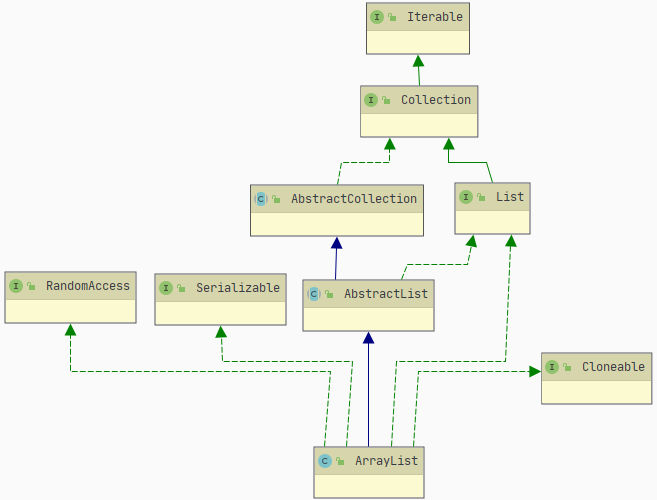
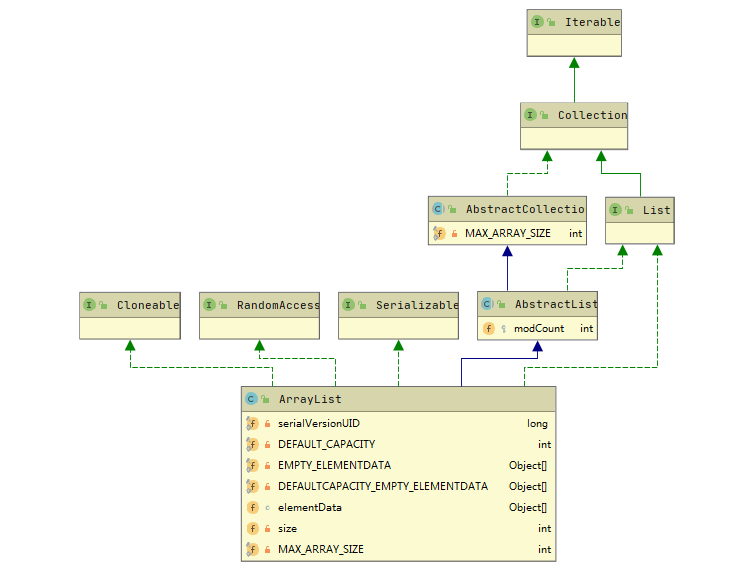
Site updated: 2020-06-06 22:25:38

diff --git a/2020/05/21/JAVA/Collection/List/ArrayList底层原理/index.html b/2020/05/21/JAVA/Collection/List/ArrayList底层原理/index.html
@@ -28,10 +28,9 @@
 <meta property="og:description" content="ArrayList 底层原理List作为有序集合的典型代表经常使用,但底层原理一直是看别人的总结,有道是实践出真知… 层级结构,数据结构 扩容机制,自身特点">
 <meta property="og:locale" content="zh_CN">
 <meta property="og:image" content="https://onepotsake.github.io/image/JAVA/Collection/List/ArrayList/Underlying%20principles.png">
-<meta property="og:image" content="https://onepotsake.github.io/image/JAVA/Collection/List/ArrayList/Expansion.png">
-<meta property="og:image" content="https://onepotsake.github.io/image/JAVA/Collection/List/ArrayList/default.png">
+<meta property="og:image" content="https://onepotsake.github.io/image/JAVA/Collection/List/ArrayList/proveThread%20NotSee.png">
 <meta property="article:published_time" content="2020-05-21T12:49:19.000Z">
-<meta property="article:modified_time" content="2020-06-05T15:58:15.615Z">
+<meta property="article:modified_time" content="2020-06-06T14:25:19.294Z">
 <meta property="article:author" content="OnePotSake">
 <meta property="article:tag" content="JAVA">
 <meta property="article:tag" content="集合">
@@ -230,7 +229,7 @@
                   <i class="far fa-calendar-check"></i>
                 </span>
                 <span class="post-meta-item-text">更新于</span>
-                <time title="修改时间：2020-06-05 23:58:15" itemprop="dateModified" datetime="2020-06-05T23:58:15+08:00">2020-06-05</time>
+                <time title="修改时间：2020-06-06 22:25:19" itemprop="dateModified" datetime="2020-06-06T22:25:19+08:00">2020-06-06</time>
               </span>
             <span class="post-meta-item">
               <span class="post-meta-item-icon">
@@ -264,14 +263,14 @@
                 <i class="far fa-file-word"></i>
               </span>
                 <span class="post-meta-item-text">本文字数：</span>
-              <span>573</span>
+              <span>6.8k</span>
             </span>
             <span class="post-meta-item" title="阅读时长">
               <span class="post-meta-item-icon">
                 <i class="far fa-clock"></i>
               </span>
                 <span class="post-meta-item-text">阅读时长 &asymp;</span>
-              <span>1 分钟</span>
+              <span>6 分钟</span>
             </span>
 
         </div>
@@ -288,13 +287,10 @@
 <p>扩容机制,自身特点</p>
 <a id="more"></a>
 
-<p>通过idea 工具可以看出其层次机构</p>
+<p>通过idea 工具看出其层次结构</p>
 <img src="/image/JAVA/Collection/List/ArrayList/Underlying principles.png" style="margin: auto;" />
 
-
-
 <center>层次结构图</center> 
-
 
 
 <p>层次结构解析</p>
@@ -302,24 +298,37 @@
 <p><strong>Collection</strong>:集合常用接口.集成集合常用方法;</p>
 <p><strong>AbstractCollectior</strong>:具体实现<strong>collection</strong>接口,重点<strong>finishToArray</strong>方法,<strong>hugeCapacity</strong>方法.</p>
 <p>   <strong>hugeCapacity</strong>用于将元素复制到新的集合中.</p>
-<p>   <strong>hugeCapacity</strong>扩容代码,扩容为原有空间大小的1.5倍.</p>
+<p>   <strong>hugeCapacity</strong>扩容代码,扩容为原有空间大小的<strong>1.5倍</strong>.</p>
 <p><strong>List</strong>: 继承原有Collection方法,同时扩展部分自己的具体实现操作(default 方法)</p>
-<p><strong>AbstractList</strong>: ArrayList 主要继承的类.其具体实现接口.</p>
-<p><strong>Randomaccess</strong>接口,实现它的接口,底层采用</p>
-<p><strong>Serializable</strong>:实例化接口,实例化接口中没有具体的方法实现.</p>
-<p><strong>Cloneable</strong>:拷贝接口</p>
-<p>存储数据结构</p>
-<p>底层采用Object[]数组存储,数组作为一个集合,我们知道数组在分配内存时是一块完整的区域,数据之间有顺序关系的.缺省值大小是10.</p>
+<p><strong>AbstractList</strong>: ArrayList 主要继承的类.其具体实现接口</p>
+<p>以下接口并未有实际的实现方法,那为什么又要调用这些接口呢?</p>
+<p><strong>Randomaccess</strong>快速访问<strong>标记</strong>接口,<strong>无实现方法</strong>,有 这格个标记默认采用for循环遍历,效率比iteator快.</p>
+<p><strong>Serializable</strong>:实例化<strong>标记</strong>接口,所谓实例化是指在数据传输过程中需要将数据进行转换二进制方便网络传输,所以我们在写类时,一般进行网络通信的数据都会实现序列化.传输完成后根据序列化内容还可以进行反序列化,还原 </p>
+<p><strong>Cloneable</strong>:拷贝<strong>标记</strong>接口,支持通过clone方法拷贝复制数据,数据的复制默认方式是<strong>浅拷贝</strong>形式.</p>
+<p>具体属性:</p>
+<figure class="highlight plain"><table><tr><td class="gutter"><pre><span class="line">1</span><br><span class="line">2</span><br><span class="line">3</span><br><span class="line">4</span><br><span class="line">5</span><br><span class="line">6</span><br><span class="line">7</span><br><span class="line">8</span><br><span class="line">9</span><br><span class="line">10</span><br><span class="line">11</span><br><span class="line">12</span><br><span class="line">13</span><br><span class="line">14</span><br><span class="line">15</span><br><span class="line">16</span><br><span class="line">17</span><br><span class="line">18</span><br><span class="line">19</span><br><span class="line">20</span><br><span class="line">21</span><br><span class="line">22</span><br><span class="line">23</span><br><span class="line">24</span><br><span class="line">25</span><br><span class="line">26</span><br><span class="line">27</span><br><span class="line">28</span><br><span class="line">29</span><br><span class="line">30</span><br><span class="line">31</span><br><span class="line">32</span><br><span class="line">33</span><br></pre></td><td class="code"><pre><span class="line">&#x2F;**</span><br><span class="line"> * Default initial capacity. 默认集合大小</span><br><span class="line"> *&#x2F;</span><br><span class="line">private static final int DEFAULT_CAPACITY &#x3D; 10;</span><br><span class="line"></span><br><span class="line">&#x2F;**</span><br><span class="line"> * Shared empty array instance used for empty instances. 用于共享空实例数据数组</span><br><span class="line"> *&#x2F;</span><br><span class="line">private static final Object[] EMPTY_ELEMENTDATA &#x3D; &#123;&#125;;</span><br><span class="line"></span><br><span class="line">&#x2F;**</span><br><span class="line"> * Shared empty array instance used for default sized empty instances. We</span><br><span class="line"> * distinguish this from EMPTY_ELEMENTDATA to know how much to inflate when</span><br><span class="line"> * first element is added. 用于共享空实例数据数组,(与上面类似有何用处?)</span><br><span class="line"> *&#x2F;</span><br><span class="line">private static final Object[] DEFAULTCAPACITY_EMPTY_ELEMENTDATA &#x3D; &#123;&#125;;</span><br><span class="line"></span><br><span class="line">&#x2F;**</span><br><span class="line"> * The array buffer into which the elements of the ArrayList are stored.</span><br><span class="line"> * The capacity of the ArrayList is the length of this array buffer. Any</span><br><span class="line"> * empty ArrayList with elementData &#x3D;&#x3D; DEFAULTCAPACITY_EMPTY_ELEMENTDATA</span><br><span class="line"> * will be expanded to DEFAULT_CAPACITY when the first element is added.</span><br><span class="line">   数组数据缓冲区存储到ArrayList中,在初次未制定长度时将未空,第一次添加数据时,将扩容至10.</span><br><span class="line">   由于是缓冲数据并未实现实例化方法.</span><br><span class="line"> *&#x2F;</span><br><span class="line">transient Object[] elementData; &#x2F;&#x2F; non-private to simplify nested class access</span><br><span class="line"></span><br><span class="line">&#x2F;**</span><br><span class="line"> * The size of the ArrayList (the number of elements it contains).</span><br><span class="line"> *  </span><br><span class="line"> * @serial</span><br><span class="line"> *&#x2F;</span><br><span class="line">private int size;</span><br></pre></td></tr></table></figure>
+
+
+
+<p><strong>存储数据结构</strong></p>
+<p>从上看出底层采用Object[]数组存储,<strong>数组</strong>作为一个集合,我们知道数组在分配内存时是一块完整的区域,数据之间有顺序关系的.缺省值大小是10,而且这格数组是<strong>动态</strong>的,我们超过原有空间大小就要进行扩容.ArrayList是<strong>线程不安全</strong>的.在多线程环境下很容易进行验证.</p>
+<img src="/image/JAVA/Collection/List/ArrayList/proveThread NotSee.png" style="margin: auto;" />
+
+<p>通过一个线程向list 中添加元素,结果却各不相同,可见线程执行时各个ArrayList<strong>不可见</strong></p>
 <p>查找方法</p>
+<figure class="highlight plain"><table><tr><td class="gutter"><pre><span class="line">1</span><br><span class="line">2</span><br><span class="line">3</span><br><span class="line">4</span><br><span class="line">5</span><br><span class="line">6</span><br><span class="line">7</span><br><span class="line">8</span><br><span class="line">9</span><br><span class="line">10</span><br><span class="line">11</span><br><span class="line">12</span><br><span class="line">13</span><br><span class="line">14</span><br><span class="line">15</span><br><span class="line">16</span><br><span class="line">17</span><br><span class="line">18</span><br><span class="line">19</span><br><span class="line">20</span><br><span class="line">21</span><br><span class="line">22</span><br><span class="line">23</span><br><span class="line">24</span><br><span class="line">25</span><br></pre></td><td class="code"><pre><span class="line">public E get(int index) &#123;</span><br><span class="line">    rangeCheck(index);</span><br><span class="line">    return elementData(index);</span><br><span class="line">&#125;</span><br><span class="line"></span><br><span class="line">private void rangeCheck(int index) &#123;</span><br><span class="line">        if (index &gt;&#x3D; size)</span><br><span class="line">            throw new IndexOutOfBoundsException(outOfBoundsMsg(index));</span><br><span class="line">&#125;</span><br><span class="line"></span><br><span class="line">E elementData(int index) &#123;</span><br><span class="line">        return (E) elementData[index];</span><br><span class="line">&#125;</span><br><span class="line">-----------------------------------------------------------------------------------------</span><br><span class="line">public E get(int index) &#123;</span><br><span class="line">            rangeCheck(index);</span><br><span class="line">            &#x2F;&#x2F; 多线程下 fail-fast机制,稍后说明 </span><br><span class="line">            checkForComodification();</span><br><span class="line">            return ArrayList.this.elementData(offset + index);</span><br><span class="line">&#125;</span><br><span class="line"></span><br><span class="line"> private void checkForComodification() &#123;</span><br><span class="line">            if (ArrayList.this.modCount !&#x3D; this.modCount)</span><br><span class="line">                throw new ConcurrentModificationException();</span><br><span class="line">&#125;</span><br></pre></td></tr></table></figure>
+
+<p>遍历方法,若采用for循环,则跟上面的获取方法是一致的.</p>
+<figure class="highlight plain"><table><tr><td class="gutter"><pre><span class="line">1</span><br><span class="line">2</span><br><span class="line">3</span><br><span class="line">4</span><br><span class="line">5</span><br><span class="line">6</span><br></pre></td><td class="code"><pre><span class="line">default void forEach(Consumer&lt;? super T&gt; action) &#123;</span><br><span class="line">    Objects.requireNonNull(action);</span><br><span class="line">    for (T t : this) &#123;</span><br><span class="line">        action.accept(t);</span><br><span class="line">    &#125;</span><br><span class="line">&#125;</span><br></pre></td></tr></table></figure>
+
+<p>新增(方法)</p>
+<figure class="highlight plain"><table><tr><td class="gutter"><pre><span class="line">1</span><br><span class="line">2</span><br><span class="line">3</span><br><span class="line">4</span><br><span class="line">5</span><br><span class="line">6</span><br><span class="line">7</span><br><span class="line">8</span><br><span class="line">9</span><br><span class="line">10</span><br><span class="line">11</span><br><span class="line">12</span><br><span class="line">13</span><br><span class="line">14</span><br><span class="line">15</span><br><span class="line">16</span><br><span class="line">17</span><br><span class="line">18</span><br><span class="line">19</span><br><span class="line">20</span><br><span class="line">21</span><br><span class="line">22</span><br><span class="line">23</span><br><span class="line">24</span><br><span class="line">25</span><br><span class="line">26</span><br><span class="line">27</span><br><span class="line">28</span><br><span class="line">29</span><br><span class="line">30</span><br><span class="line">31</span><br><span class="line">32</span><br><span class="line">33</span><br><span class="line">34</span><br><span class="line">35</span><br><span class="line">36</span><br><span class="line">37</span><br><span class="line">38</span><br><span class="line">39</span><br><span class="line">40</span><br><span class="line">41</span><br><span class="line">42</span><br><span class="line">43</span><br><span class="line">44</span><br><span class="line">45</span><br><span class="line">46</span><br><span class="line">47</span><br><span class="line">48</span><br><span class="line">49</span><br><span class="line">50</span><br><span class="line">51</span><br><span class="line">52</span><br><span class="line">53</span><br><span class="line">54</span><br><span class="line">55</span><br><span class="line">56</span><br><span class="line">57</span><br><span class="line">58</span><br><span class="line">59</span><br><span class="line">60</span><br><span class="line">61</span><br><span class="line">62</span><br><span class="line">63</span><br><span class="line">64</span><br><span class="line">65</span><br><span class="line">66</span><br><span class="line">67</span><br><span class="line">68</span><br><span class="line">69</span><br><span class="line">70</span><br><span class="line">71</span><br><span class="line">72</span><br><span class="line">73</span><br><span class="line">74</span><br><span class="line">75</span><br><span class="line">76</span><br><span class="line">77</span><br><span class="line">78</span><br><span class="line">79</span><br><span class="line">80</span><br><span class="line">81</span><br><span class="line">82</span><br><span class="line">83</span><br><span class="line">84</span><br><span class="line">85</span><br><span class="line">86</span><br><span class="line">87</span><br><span class="line">88</span><br><span class="line">89</span><br><span class="line">90</span><br><span class="line">91</span><br><span class="line">92</span><br><span class="line">93</span><br><span class="line">94</span><br><span class="line">95</span><br><span class="line">96</span><br><span class="line">97</span><br><span class="line">98</span><br><span class="line">99</span><br><span class="line">100</span><br><span class="line">101</span><br><span class="line">102</span><br><span class="line">103</span><br><span class="line">104</span><br><span class="line">105</span><br><span class="line">106</span><br><span class="line">107</span><br><span class="line">108</span><br><span class="line">109</span><br><span class="line">110</span><br><span class="line">111</span><br><span class="line">112</span><br></pre></td><td class="code"><pre><span class="line">public boolean add(E e) &#123;</span><br><span class="line">    ensureCapacityInternal(size + 1);</span><br><span class="line">    elementData[size++] &#x3D; e;</span><br><span class="line">    return true;</span><br><span class="line">&#125;</span><br><span class="line"></span><br><span class="line">private void ensureCapacityInternal(int minCapacity) &#123;</span><br><span class="line">        ensureExplicitCapacity(calculateCapacity(elementData, minCapacity));</span><br><span class="line">&#125;</span><br><span class="line"></span><br><span class="line">private static int calculateCapacity(Object[] elementData, int minCapacity) &#123;</span><br><span class="line">        if (elementData &#x3D;&#x3D; DEFAULTCAPACITY_EMPTY_ELEMENTDATA) &#123;</span><br><span class="line">            return Math.max(DEFAULT_CAPACITY, minCapacity);</span><br><span class="line">        &#125;</span><br><span class="line">        return minCapacity;</span><br><span class="line">&#125;</span><br><span class="line"></span><br><span class="line">private void ensureExplicitCapacity(int minCapacity) &#123;</span><br><span class="line">        modCount++;</span><br><span class="line">        &#x2F;&#x2F; overflow-conscious code</span><br><span class="line">        if (minCapacity - elementData.length &gt; 0)</span><br><span class="line">            grow(minCapacity);</span><br><span class="line">&#125;</span><br><span class="line"></span><br><span class="line">private void grow(int minCapacity) &#123;</span><br><span class="line">        &#x2F;&#x2F; overflow-conscious code</span><br><span class="line">        int oldCapacity &#x3D; elementData.length;</span><br><span class="line">        int newCapacity &#x3D; oldCapacity + (oldCapacity &gt;&gt; 1);</span><br><span class="line">        if (newCapacity - minCapacity &lt; 0)</span><br><span class="line">            newCapacity &#x3D; minCapacity;</span><br><span class="line">        if (newCapacity - MAX_ARRAY_SIZE &gt; 0)</span><br><span class="line">            newCapacity &#x3D; hugeCapacity(minCapacity);</span><br><span class="line">        &#x2F;&#x2F; minCapacity is usually close to size, so this is a win:</span><br><span class="line">        elementData &#x3D; Arrays.copyOf(elementData, newCapacity);</span><br><span class="line">&#125; </span><br><span class="line">-----------------------------------------------------------------------------------------</span><br><span class="line">public void add(int index, E element) &#123;</span><br><span class="line">        rangeCheckForAdd(index);</span><br><span class="line">        ensureCapacityInternal(size + 1);  &#x2F;&#x2F; Increments modCount!!</span><br><span class="line">        System.arraycopy(elementData, index, elementData, index + 1,size - index);</span><br><span class="line">        elementData[index] &#x3D; element;</span><br><span class="line">        size++;</span><br><span class="line">&#125;</span><br><span class="line"></span><br><span class="line">private void rangeCheckForAdd(int index) &#123;</span><br><span class="line">        if (index &gt; size || index &lt; 0)</span><br><span class="line">            throw new IndexOutOfBoundsException(outOfBoundsMsg(index));</span><br><span class="line">&#125;</span><br><span class="line">-----------------------------------------------------------------------------------------</span><br><span class="line">public boolean addAll(Collection&lt;? extends E&gt; c) &#123;</span><br><span class="line">        Object[] a &#x3D; c.toArray();</span><br><span class="line">        int numNew &#x3D; a.length;</span><br><span class="line">        ensureCapacityInternal(size + numNew);  &#x2F;&#x2F; Increments modCount</span><br><span class="line">        System.arraycopy(a, 0, elementData, size, numNew);</span><br><span class="line">        size +&#x3D; numNew;</span><br><span class="line">        return numNew !&#x3D; 0;</span><br><span class="line">&#125;</span><br><span class="line">---------------------------------------------------------------------------------------- </span><br><span class="line">public boolean addAll(int index, Collection&lt;? extends E&gt; c) &#123;</span><br><span class="line">        rangeCheckForAdd(index);</span><br><span class="line">        </span><br><span class="line">        Object[] a &#x3D; c.toArray();</span><br><span class="line">        int numNew &#x3D; a.length;</span><br><span class="line">        ensureCapacityInternal(size + numNew);  &#x2F;&#x2F; Increments modCount</span><br><span class="line"></span><br><span class="line">        int numMoved &#x3D; size - index;</span><br><span class="line">        if (numMoved &gt; 0)</span><br><span class="line">            System.arraycopy(elementData, index, elementData, index + numNew,numMoved);</span><br><span class="line"></span><br><span class="line">        System.arraycopy(a, 0, elementData, index, numNew);</span><br><span class="line">        size +&#x3D; numNew;</span><br><span class="line">        return numNew !&#x3D; 0;</span><br><span class="line">&#125;</span><br><span class="line"></span><br><span class="line"></span><br><span class="line">public void add(E e) &#123;</span><br><span class="line">            checkForComodification();</span><br><span class="line">            try &#123;</span><br><span class="line">                int i &#x3D; cursor;</span><br><span class="line">                ArrayList.this.add(i, e);</span><br><span class="line">                cursor &#x3D; i + 1;</span><br><span class="line">                lastRet &#x3D; -1;</span><br><span class="line">                expectedModCount &#x3D; modCount;</span><br><span class="line">            &#125; catch (IndexOutOfBoundsException ex) &#123;</span><br><span class="line">                throw new ConcurrentModificationException();</span><br><span class="line">            &#125;</span><br><span class="line">        &#125;</span><br><span class="line">&#125;</span><br><span class="line">----------------------------------------------------------------------------------------  public void add(int index, E e) &#123;</span><br><span class="line">            rangeCheckForAdd(index);</span><br><span class="line">            checkForComodification();</span><br><span class="line">            parent.add(parentOffset + index, e);</span><br><span class="line">            this.modCount &#x3D; parent.modCount;</span><br><span class="line">            this.size++;</span><br><span class="line">&#125;</span><br><span class="line">----------------------------------------------------------------------------------------   </span><br><span class="line"> public boolean addAll(Collection&lt;? extends E&gt; c) &#123;</span><br><span class="line">            return addAll(this.size, c);</span><br><span class="line">        &#125;</span><br><span class="line">----------------------------------------------------------------------------------------</span><br><span class="line">public boolean addAll(int index, Collection&lt;? extends E&gt; c) &#123;</span><br><span class="line">            rangeCheckForAdd(index);</span><br><span class="line">            int cSize &#x3D; c.size();</span><br><span class="line">            if (cSize&#x3D;&#x3D;0)</span><br><span class="line">                return false;</span><br><span class="line"></span><br><span class="line">            checkForComodification();</span><br><span class="line">            parent.addAll(parentOffset + index, c);</span><br><span class="line">            this.modCount &#x3D; parent.modCount;</span><br><span class="line">            this.size +&#x3D; cSize;</span><br><span class="line">            return true;</span><br><span class="line">&#125;</span><br></pre></td></tr></table></figure>
+
 <p>修改</p>
+<figure class="highlight plain"><table><tr><td class="gutter"><pre><span class="line">1</span><br><span class="line">2</span><br><span class="line">3</span><br><span class="line">4</span><br><span class="line">5</span><br><span class="line">6</span><br><span class="line">7</span><br></pre></td><td class="code"><pre><span class="line">public E set(int index, E element) &#123;</span><br><span class="line">    rangeCheck(index);</span><br><span class="line"></span><br><span class="line">    E oldValue &#x3D; elementData(index);</span><br><span class="line">    elementData[index] &#x3D; element;</span><br><span class="line">    return oldValue;</span><br><span class="line">&#125;</span><br></pre></td></tr></table></figure>
+
 <p>删除</p>
-<img src="/image/JAVA/Collection/List/ArrayList/Expansion.png" style="margin: auto;" />
-
-<center>扩容机制代码</center>
-
-<img src="/image/JAVA/Collection/List/ArrayList/default.png" style="margin: auto;" />
-
-<center>属性</center>
+<figure class="highlight plain"><table><tr><td class="gutter"><pre><span class="line">1</span><br><span class="line">2</span><br><span class="line">3</span><br><span class="line">4</span><br><span class="line">5</span><br><span class="line">6</span><br><span class="line">7</span><br><span class="line">8</span><br><span class="line">9</span><br><span class="line">10</span><br><span class="line">11</span><br><span class="line">12</span><br><span class="line">13</span><br><span class="line">14</span><br></pre></td><td class="code"><pre><span class="line">public E remove(int index) &#123;</span><br><span class="line">    rangeCheck(index);</span><br><span class="line"></span><br><span class="line">    modCount++;</span><br><span class="line">    E oldValue &#x3D; elementData(index);</span><br><span class="line"></span><br><span class="line">    int numMoved &#x3D; size - index - 1;</span><br><span class="line">    if (numMoved &gt; 0)</span><br><span class="line">        System.arraycopy(elementData, index+1, elementData, index,</span><br><span class="line">                         numMoved);</span><br><span class="line">    elementData[--size] &#x3D; null; &#x2F;&#x2F; clear to let GC do its work</span><br><span class="line"></span><br><span class="line">    return oldValue;</span><br><span class="line">&#125;</span><br></pre></td></tr></table></figure>
     </div>
 
     
@@ -528,12 +537,12 @@
     <span class="post-meta-item-icon">
       <i class="fa fa-chart-area"></i>
     </span>
-    <span title="站点总字数">8k</span>
+    <span title="站点总字数">14k</span>
     <span class="post-meta-divider">|</span>
     <span class="post-meta-item-icon">
       <i class="fa fa-coffee"></i>
     </span>
-    <span title="站点阅读时长">7 分钟</span>
+    <span title="站点阅读时长">13 分钟</span>
 </div>
 <!--  
     <div class="powered-by">由 <a href="https://hexo.io/" class="theme-link" rel="noopener" target="_blank">Hexo</a> & <a href="https://theme-next.org/" class="theme-link" rel="noopener" target="_blank">NexT.Gemini</a> 强力驱动

diff --git a/index.html b/index.html
@@ -219,7 +219,7 @@
                   <i class="far fa-calendar-check"></i>
                 </span>
                 <span class="post-meta-item-text">更新于</span>
-                <time title="修改时间：2020-06-05 23:58:15" itemprop="dateModified" datetime="2020-06-05T23:58:15+08:00">2020-06-05</time>
+                <time title="修改时间：2020-06-06 22:25:19" itemprop="dateModified" datetime="2020-06-06T22:25:19+08:00">2020-06-06</time>
               </span>
             <span class="post-meta-item">
               <span class="post-meta-item-icon">
@@ -253,14 +253,14 @@
                 <i class="far fa-file-word"></i>
               </span>
                 <span class="post-meta-item-text">本文字数：</span>
-              <span>573</span>
+              <span>6.8k</span>
             </span>
             <span class="post-meta-item" title="阅读时长">
               <span class="post-meta-item-icon">
                 <i class="far fa-clock"></i>
               </span>
                 <span class="post-meta-item-text">阅读时长 &asymp;</span>
-              <span>1 分钟</span>
+              <span>6 分钟</span>
             </span>
 
         </div>
@@ -664,12 +664,12 @@
     <span class="post-meta-item-icon">
       <i class="fa fa-chart-area"></i>
     </span>
-    <span title="站点总字数">8k</span>
+    <span title="站点总字数">14k</span>
     <span class="post-meta-divider">|</span>
     <span class="post-meta-item-icon">
       <i class="fa fa-coffee"></i>
     </span>
-    <span title="站点阅读时长">7 分钟</span>
+    <span title="站点阅读时长">13 分钟</span>
 </div>
 <!--  
     <div class="powered-by">由 <a href="https://hexo.io/" class="theme-link" rel="noopener" target="_blank">Hexo</a> & <a href="https://theme-next.org/" class="theme-link" rel="noopener" target="_blank">NexT.Gemini</a> 强力驱动

diff --git a/2020/03/20/hello-world/index.html b/2020/03/20/hello-world/index.html
@@ -448,12 +448,12 @@
     <span class="post-meta-item-icon">
       <i class="fa fa-chart-area"></i>
     </span>
-    <span title="站点总字数">8k</span>
+    <span title="站点总字数">14k</span>
     <span class="post-meta-divider">|</span>
     <span class="post-meta-item-icon">
       <i class="fa fa-coffee"></i>
     </span>
-    <span title="站点阅读时长">7 分钟</span>
+    <span title="站点阅读时长">13 分钟</span>
 </div>
 <!--  
     <div class="powered-by">由 <a href="https://hexo.io/" class="theme-link" rel="noopener" target="_blank">Hexo</a> & <a href="https://theme-next.org/" class="theme-link" rel="noopener" target="_blank">NexT.Gemini</a> 强力驱动

diff --git a/2020/05/18/db/MySQL/索引/MySQL索引原理/index.html b/2020/05/18/db/MySQL/索引/MySQL索引原理/index.html
@@ -533,12 +533,12 @@
     <span class="post-meta-item-icon">
       <i class="fa fa-chart-area"></i>
     </span>
-    <span title="站点总字数">8k</span>
+    <span title="站点总字数">14k</span>
     <span class="post-meta-divider">|</span>
     <span class="post-meta-item-icon">
       <i class="fa fa-coffee"></i>
     </span>
-    <span title="站点阅读时长">7 分钟</span>
+    <span title="站点阅读时长">13 分钟</span>
 </div>
 <!--  
     <div class="powered-by">由 <a href="https://hexo.io/" class="theme-link" rel="noopener" target="_blank">Hexo</a> & <a href="https://theme-next.org/" class="theme-link" rel="noopener" target="_blank">NexT.Gemini</a> 强力驱动

diff --git a/2020/05/19/skill/逆向工程生成实体与mapper文件/index.html b/2020/05/19/skill/逆向工程生成实体与mapper文件/index.html
@@ -491,12 +491,12 @@
     <span class="post-meta-item-icon">
       <i class="fa fa-chart-area"></i>
     </span>
-    <span title="站点总字数">8k</span>
+    <span title="站点总字数">14k</span>
     <span class="post-meta-divider">|</span>
     <span class="post-meta-item-icon">
       <i class="fa fa-coffee"></i>
     </span>
-    <span title="站点阅读时长">7 分钟</span>
+    <span title="站点阅读时长">13 分钟</span>
 </div>
 <!--  
     <div class="powered-by">由 <a href="https://hexo.io/" class="theme-link" rel="noopener" target="_blank">Hexo</a> & <a href="https://theme-next.org/" class="theme-link" rel="noopener" target="_blank">NexT.Gemini</a> 强力驱动

diff --git a/2020/05/29/JVM/JVM调优/JVM 调优/index.html b/2020/05/29/JVM/JVM调优/JVM 调优/index.html
@@ -480,12 +480,12 @@
     <span class="post-meta-item-icon">
       <i class="fa fa-chart-area"></i>
     </span>
-    <span title="站点总字数">8k</span>
+    <span title="站点总字数">14k</span>
     <span class="post-meta-divider">|</span>
     <span class="post-meta-item-icon">
       <i class="fa fa-coffee"></i>
     </span>
-    <span title="站点阅读时长">7 分钟</span>
+    <span title="站点阅读时长">13 分钟</span>
 </div>
 <!--  
     <div class="powered-by">由 <a href="https://hexo.io/" class="theme-link" rel="noopener" target="_blank">Hexo</a> & <a href="https://theme-next.org/" class="theme-link" rel="noopener" target="_blank">NexT.Gemini</a> 强力驱动

diff --git a/2020/05/30/JVM/JVM结构/JVM 结构/index.html b/2020/05/30/JVM/JVM结构/JVM 结构/index.html
@@ -480,12 +480,12 @@
     <span class="post-meta-item-icon">
       <i class="fa fa-chart-area"></i>
     </span>
-    <span title="站点总字数">8k</span>
+    <span title="站点总字数">14k</span>
     <span class="post-meta-divider">|</span>
     <span class="post-meta-item-icon">
       <i class="fa fa-coffee"></i>
     </span>
-    <span title="站点阅读时长">7 分钟</span>
+    <span title="站点阅读时长">13 分钟</span>
 </div>
 <!--  
     <div class="powered-by">由 <a href="https://hexo.io/" class="theme-link" rel="noopener" target="_blank">Hexo</a> & <a href="https://theme-next.org/" class="theme-link" rel="noopener" target="_blank">NexT.Gemini</a> 强力驱动

diff --git a/2020/05/30/JVM/垃圾回收器/常见垃圾回收器与其特点/index.html b/2020/05/30/JVM/垃圾回收器/常见垃圾回收器与其特点/index.html
@@ -480,12 +480,12 @@
     <span class="post-meta-item-icon">
       <i class="fa fa-chart-area"></i>
     </span>
-    <span title="站点总字数">8k</span>
+    <span title="站点总字数">14k</span>
     <span class="post-meta-divider">|</span>
     <span class="post-meta-item-icon">
       <i class="fa fa-coffee"></i>
     </span>
-    <span title="站点阅读时长">7 分钟</span>
+    <span title="站点阅读时长">13 分钟</span>
 </div>
 <!--  
     <div class="powered-by">由 <a href="https://hexo.io/" class="theme-link" rel="noopener" target="_blank">Hexo</a> & <a href="https://theme-next.org/" class="theme-link" rel="noopener" target="_blank">NexT.Gemini</a> 强力驱动

diff --git a/about/index.html b/about/index.html
@@ -371,12 +371,12 @@
     <span class="post-meta-item-icon">
       <i class="fa fa-chart-area"></i>
     </span>
-    <span title="站点总字数">8k</span>
+    <span title="站点总字数">14k</span>
     <span class="post-meta-divider">|</span>
     <span class="post-meta-item-icon">
       <i class="fa fa-coffee"></i>
     </span>
-    <span title="站点阅读时长">7 分钟</span>
+    <span title="站点阅读时长">13 分钟</span>
 </div>
 <!--  
     <div class="powered-by">由 <a href="https://hexo.io/" class="theme-link" rel="noopener" target="_blank">Hexo</a> & <a href="https://theme-next.org/" class="theme-link" rel="noopener" target="_blank">NexT.Gemini</a> 强力驱动

diff --git a/algorithm/index.html b/algorithm/index.html
@@ -371,12 +371,12 @@
     <span class="post-meta-item-icon">
       <i class="fa fa-chart-area"></i>
     </span>
-    <span title="站点总字数">8k</span>
+    <span title="站点总字数">14k</span>
     <span class="post-meta-divider">|</span>
     <span class="post-meta-item-icon">
       <i class="fa fa-coffee"></i>
     </span>
-    <span title="站点阅读时长">7 分钟</span>
+    <span title="站点阅读时长">13 分钟</span>
 </div>
 <!--  
     <div class="powered-by">由 <a href="https://hexo.io/" class="theme-link" rel="noopener" target="_blank">Hexo</a> & <a href="https://theme-next.org/" class="theme-link" rel="noopener" target="_blank">NexT.Gemini</a> 强力驱动

diff --git a/archives/2020/05/index.html b/archives/2020/05/index.html
@@ -418,12 +418,12 @@
     <span class="post-meta-item-icon">
       <i class="fa fa-chart-area"></i>
     </span>
-    <span title="站点总字数">8k</span>
+    <span title="站点总字数">14k</span>
     <span class="post-meta-divider">|</span>
     <span class="post-meta-item-icon">
       <i class="fa fa-coffee"></i>
     </span>
-    <span title="站点阅读时长">7 分钟</span>
+    <span title="站点阅读时长">13 分钟</span>
 </div>
 <!--  
     <div class="powered-by">由 <a href="https://hexo.io/" class="theme-link" rel="noopener" target="_blank">Hexo</a> & <a href="https://theme-next.org/" class="theme-link" rel="noopener" target="_blank">NexT.Gemini</a> 强力驱动

diff --git a/archives/2020/index.html b/archives/2020/index.html
@@ -418,12 +418,12 @@
     <span class="post-meta-item-icon">
       <i class="fa fa-chart-area"></i>
     </span>
-    <span title="站点总字数">8k</span>
+    <span title="站点总字数">14k</span>
     <span class="post-meta-divider">|</span>
     <span class="post-meta-item-icon">
       <i class="fa fa-coffee"></i>
     </span>
-    <span title="站点阅读时长">7 分钟</span>
+    <span title="站点阅读时长">13 分钟</span>
 </div>
 <!--  
     <div class="powered-by">由 <a href="https://hexo.io/" class="theme-link" rel="noopener" target="_blank">Hexo</a> & <a href="https://theme-next.org/" class="theme-link" rel="noopener" target="_blank">NexT.Gemini</a> 强力驱动
